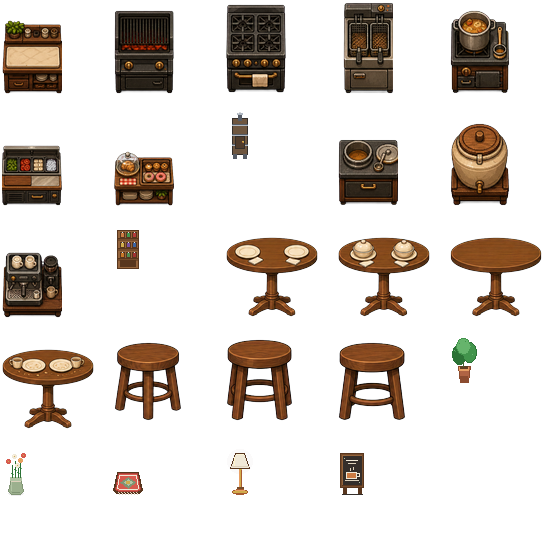
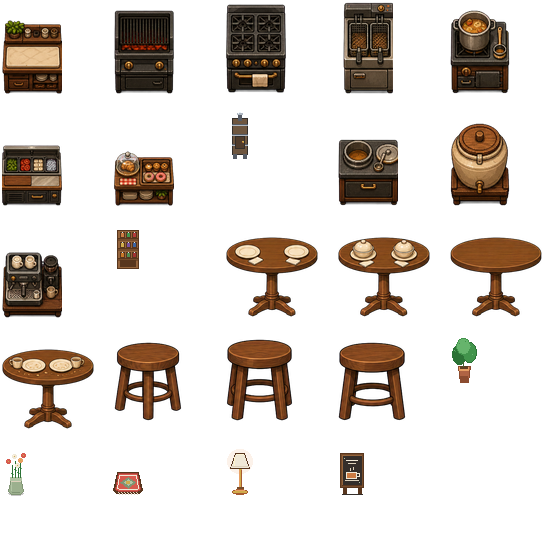
Preserve sprite alpha while packing atlases

diff --git a/src/test/atlas-packer.test.ts b/src/test/atlas-packer.test.ts
@@ -1,0 +1,13 @@
+import { execFileSync } from 'node:child_process';
+import { resolve } from 'node:path';
+import { describe, expect, it } from 'vitest';
+
+describe('atlas packer', () => {
+  it('preserves straight-alpha sprite coverage without applying it twice', () => {
+    expect(() =>
+      execFileSync('python3', [resolve('scripts/test-pack-atlas.py')], {
+        encoding: 'utf8',
+      }),
+    ).not.toThrow();
+  });
+});

diff --git a/scripts/test-pack-atlas.py b/scripts/test-pack-atlas.py
@@ -1,0 +1,59 @@
+#!/usr/bin/env python3
+"""Regression test for straight-alpha preservation in the atlas packer."""
+
+from __future__ import annotations
+
+import importlib.util
+import sys
+import tempfile
+import unittest
+from pathlib import Path
+
+from PIL import Image
+
+
+SCRIPT = Path(__file__).with_name("pack-atlas.py")
+sys.dont_write_bytecode = True
+SPEC = importlib.util.spec_from_file_location("pack_atlas_script", SCRIPT)
+if SPEC is None or SPEC.loader is None:
+    raise RuntimeError(f"Could not import atlas packer: {SCRIPT}")
+PACKER = importlib.util.module_from_spec(SPEC)
+SPEC.loader.exec_module(PACKER)
+
+
+class AtlasAlphaTest(unittest.TestCase):
+    def test_packing_preserves_authored_alpha_once(self) -> None:
+        with tempfile.TemporaryDirectory() as directory:
+            root = Path(directory)
+            source_path = root / "source.png"
+            atlas_path = root / "atlas.png"
+            data_path = root / "atlas.json"
+            source = Image.new("RGBA", (2, 2))
+            source.putdata(
+                [
+                    (0, 0, 0, 0),
+                    (240, 220, 200, 32),
+                    (12, 34, 56, 128),
+                    (90, 80, 70, 255),
+                ]
+            )
+            source.save(source_path)
+
+            PACKER.pack_atlas(
+                [("probe", source_path)],
+                atlas_path,
+                data_path,
+                cell=2,
+            )
+
+            packed = Image.open(atlas_path).convert("RGBA")
+            self.assertEqual(
+                list(packed.getchannel("A").get_flattened_data()),
+                [0, 32, 128, 255],
+            )
+            self.assertEqual(packed.getpixel((1, 0))[:3], (240, 220, 200))
+            self.assertEqual(packed.getpixel((0, 1))[:3], (12, 34, 56))
+
+
+if __name__ == "__main__":
+    unittest.main()

diff --git a/scripts/pack-atlas.py b/scripts/pack-atlas.py
@@ -56,7 +56,16 @@ def pack_atlas(
         row = index // cols
         x = col * cell
         y = row * cell
-        sheet.paste(img, (x, y), img)
+        # The source already carries straight RGBA. Passing it again as a
+        # ``paste`` mask multiplies the alpha channel by itself, turning a
+        # 50%-opaque antialiased edge into 25% opacity. In motion that reads as
+        # clipped hair, pale matte fringe, and see-through limbs. Composite
+        # onto the transparent atlas once so the packed frame preserves the
+        # authored coverage exactly.
+        sheet.alpha_composite(img, (x, y))
+        packed_alpha = sheet.crop((x, y, x + img.width, y + img.height)).getchannel('A')
+        if packed_alpha.tobytes() != img.getchannel('A').tobytes():
+            raise SystemExit(f'Atlas alpha changed while packing frame: {name}')
         frames[name] = {
             'frame': {'x': x, 'y': y, 'w': img.width, 'h': img.height},
             'rotated': False,
